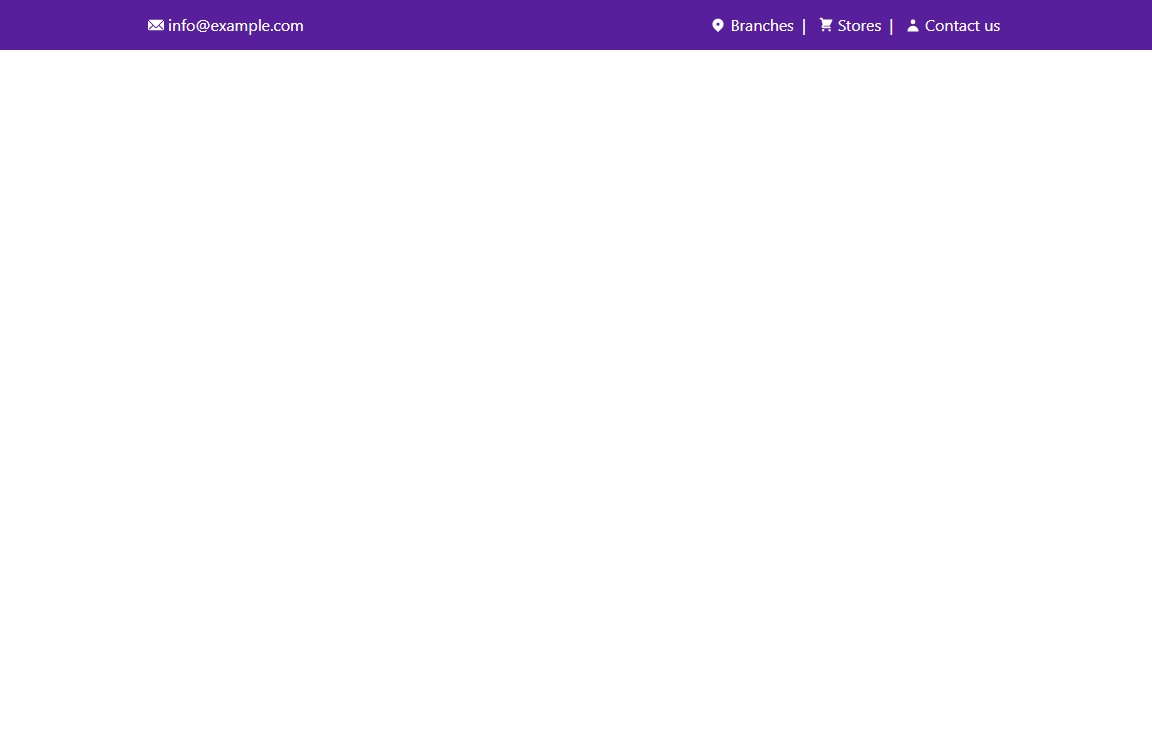
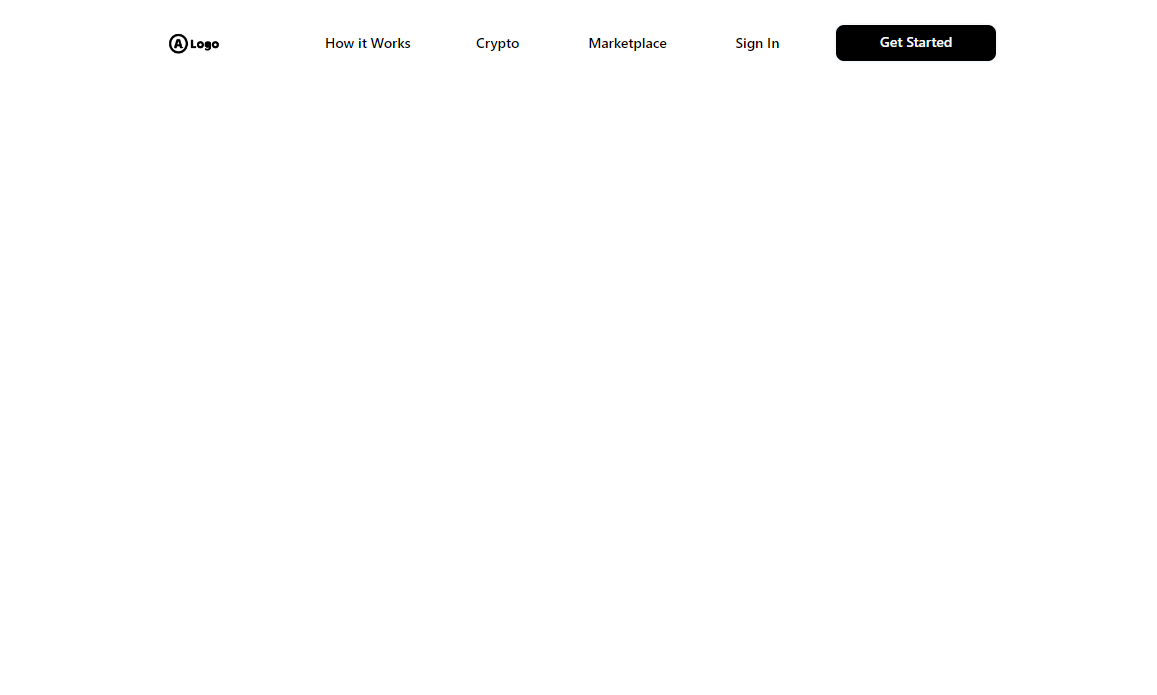
finished

Changed region(s): [[0.0, 0.0, 1.0, 0.0906]]

diff --git a/pages/index.tsx b/pages/index.tsx
@@ -15,12 +15,10 @@ const Home: NextPage = () => {
         <link rel="icon" href="/favicon.ico" />
       </Head>
       <section>
-        <nav>
+        <nav className="lg:hidden">
           <div className="flex px-4 py-2 justify-between">
             <img className="w-14" src="https://project03-navbar.vercel.app/logo.png" alt="" />
-          <div className="py-3" onClick={()=>setNav(!nav)}>
-            
-          
+          <div className="py-3" onClick={()=>setNav(!nav)}>       
             {nav?<FontAwesomeIcon icon={faXmark} className='w-4'/>:<FontAwesomeIcon icon={faBars} className='w-5'/>}
           </div>
             
@@ -38,16 +36,16 @@ const Home: NextPage = () => {
           </div>
           </ul>
         </nav>
-        {/* <nav>
-          <ul>
-            <li><img className="w-10" src="https://project03-navbar.vercel.app/logo.png" alt="" /></li>
-            <li>How it Works</li>
-            <li>Crypto</li>
-            <li>Marketplace</li>
-            <li>Sign In</li>
-            <li className="px-4 py-2 bg-black">Get Started</li>
+        <nav className="w-[80%] mx-auto my-0 py-4">
+          <ul className="flex justify-around items-center">
+            <li><img className="w-14" src="https://project03-navbar.vercel.app/logo.png" alt="" /></li>
+            <li className="font-[500]">How it Works</li>
+            <li className="font-[500]">Crypto</li>
+            <li className="font-[500]">Marketplace</li>
+            <li className="font-[500]">Sign In</li>
+            <li className="font-[500] px-4 py-2 bg-black rounded text-white">Get Started</li>
           </ul>
-        </nav> */}
+        </nav>
       </section>
     </div>
   );
